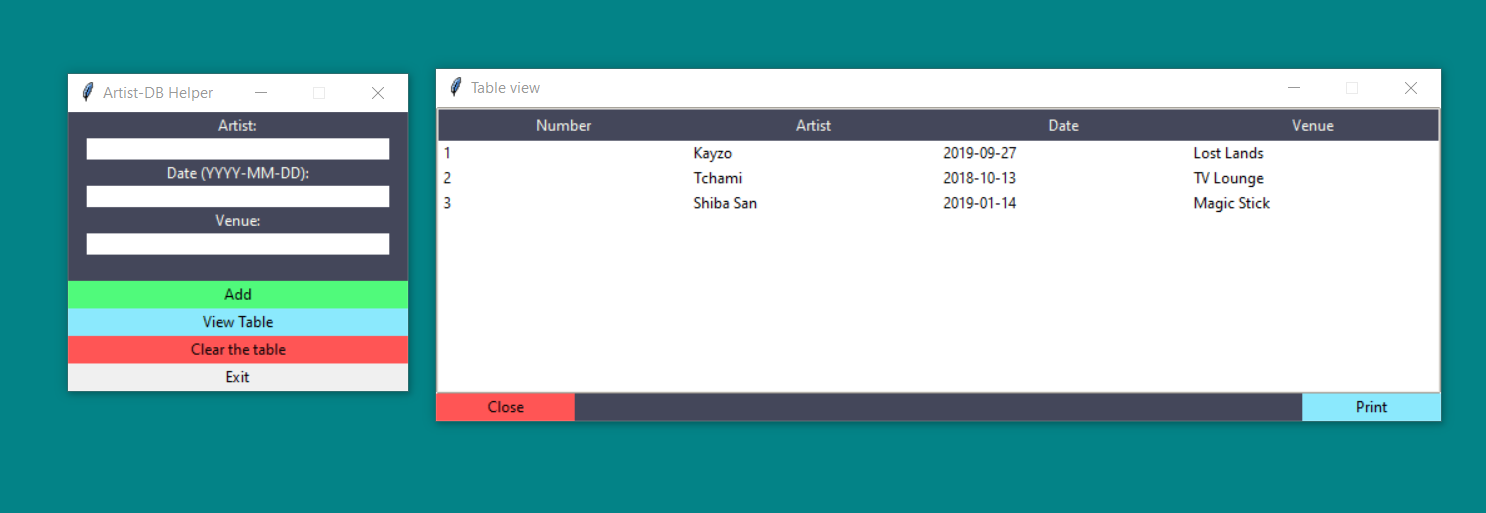
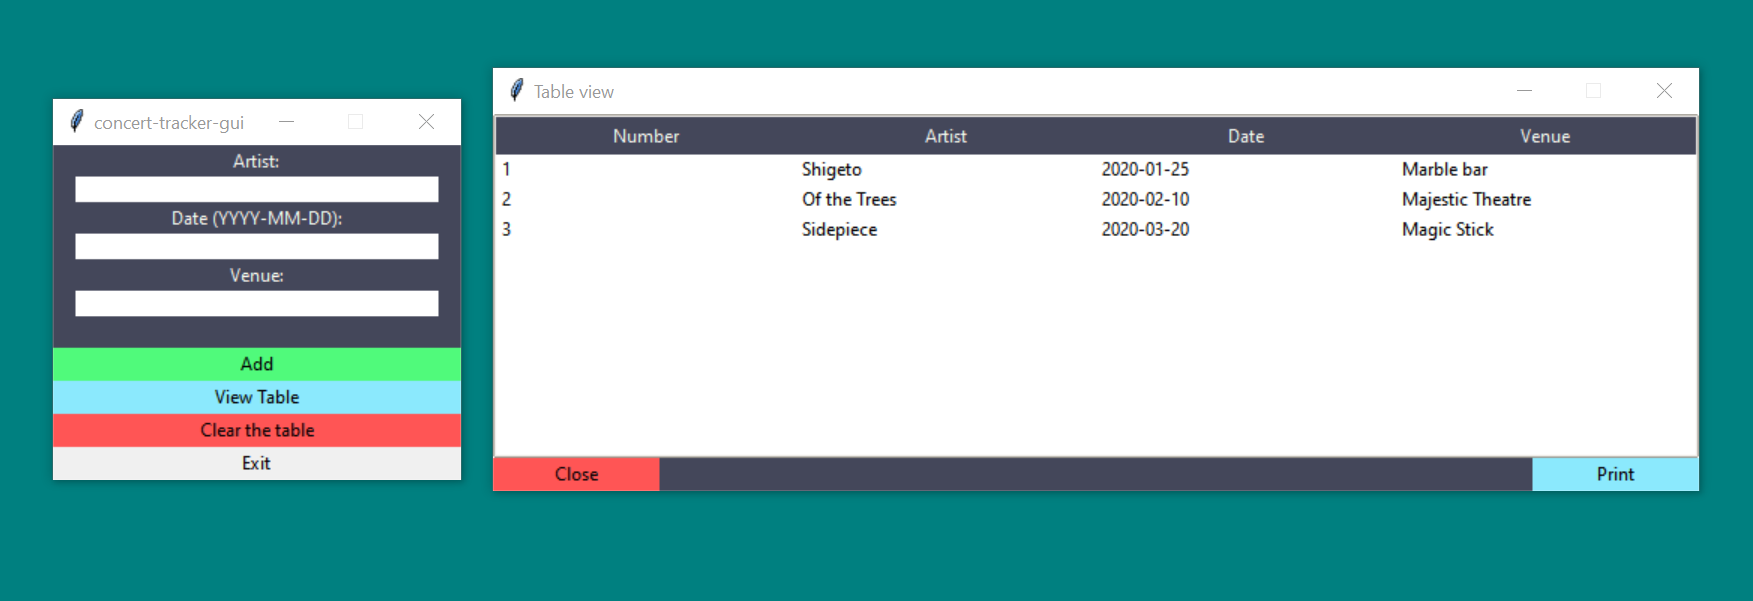
small improvements and cleanup

Changed region(s): [[0.031, 0.0936, 0.9906, 0.8421]]

diff --git a/src/main.py b/src/main.py
@@ -1,19 +1,9 @@
 import gui
-import cli
 import mitchDAO
 
-
 def main():
-    
-    # Instantiate the Data Access Object from DAO class in mitchDAO.py
     DAO = mitchDAO.DAO('Shows.db')
-    
-    # Build the graphical user interface
     gui.buildGUI(DAO)
-    # Commented out the command line interface now that the GUI is working
-    #cli.cmdPromptLoop(DAO)
-
-    # Close SQLite connector before exit
     DAO.close()
 
 if __name__ == '__main__':

diff --git a/src/gui.py b/src/gui.py
@@ -11,7 +11,7 @@ def buildGUI(DAO):
     mainWindow.configure(background = "#44475a")
     #mainWindow.geometry("400x200")
     mainWindow.resizable(0,0)
-    mainWindow.title("Artist-DB Helper")
+    mainWindow.title("concert-tracker-gui")
 
     # Labels and text entry boxes
     artistLabel = Label(mainWindow, bg="#44475a", fg="#f8f8f2", text="Artist:")

diff --git a/README.md b/README.md
@@ -1,19 +1,14 @@
 # Concert tracker
 
-[![Python](https://img.shields.io/badge/Python-3776AB?style=flat-square&logo=Python&logoColor=white)]()
-[![SQLite](https://img.shields.io/badge/SQLite-003B57?style=flat-square&logo=SQLite&logoColor=white)]()
 ### Overview
+I go to a lot of concerts, and was having trouble keeping track of who I have/haven't seen. I wanted a solution that allows me to select all the artists I have seen at a given venue, year, etc. 
+Excel and Excel macros are alright, but SQLite is better for performing queries.  
 
-I go to a lot of concerts, and was having trouble keeping track of who I have/haven't seen. I need a solution that allows me to select all the artists I have seen at a given venue, year, etc.  
-
-Excel and Excel macros are alright, but  SQLite is better for performing queries.  
-SQLite is also more relevant to my future interests and this project was a good opportunity to learn how to build a GUI in Python.
-
-The program has an alternative CLI and works on Windows 10 and Linux.
+This project was a good opportunity to learn how to build a GUI in Python.
 
 ### Running the program
 
-Execute `python .\src\main.py` or download the release.
+Execute `start.ps1` or download the release.
 
 ### Screenshot
 ![Screenshot](./screenshots/screen3.png)  
@@ -22,6 +17,5 @@ Execute `python .\src\main.py` or download the release.
 ### Dependencies
 
 * Python 3
-* You need [SQLite3](https://sqlite.org/download.html) on your machine.
-* [Tabulate Python module](https://github.com/astanin/python-tabulate) - which is distributed under the MIT license.  
-`pip install tabulate`
+* SQLite3
+* The [Tabulate](https://github.com/astanin/python-tabulate) Python module which is distributed under the MIT license.
